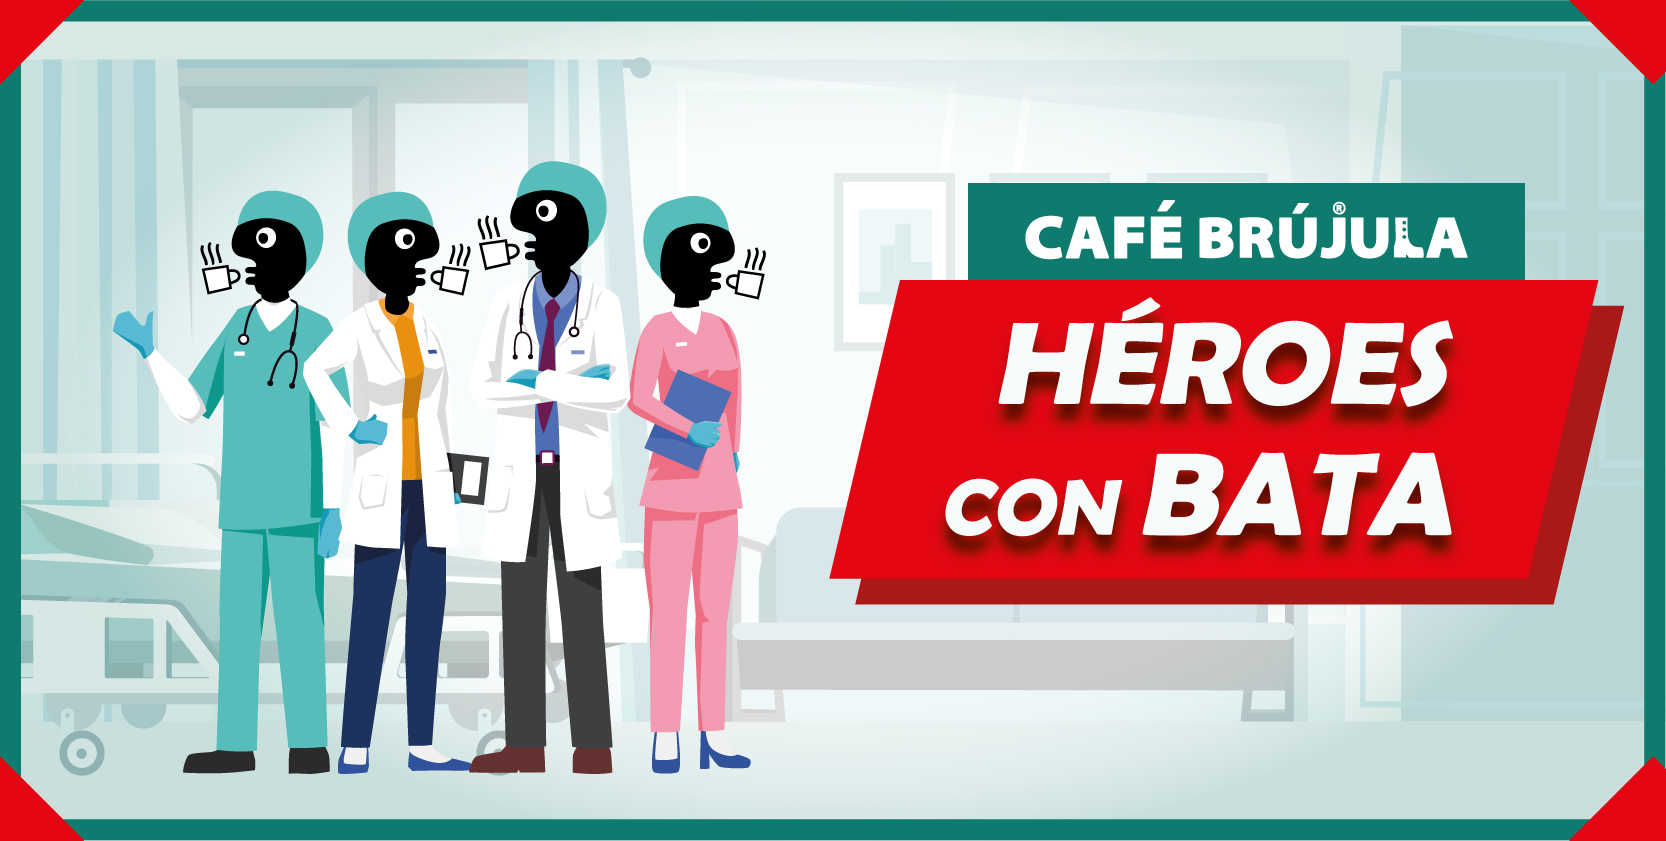
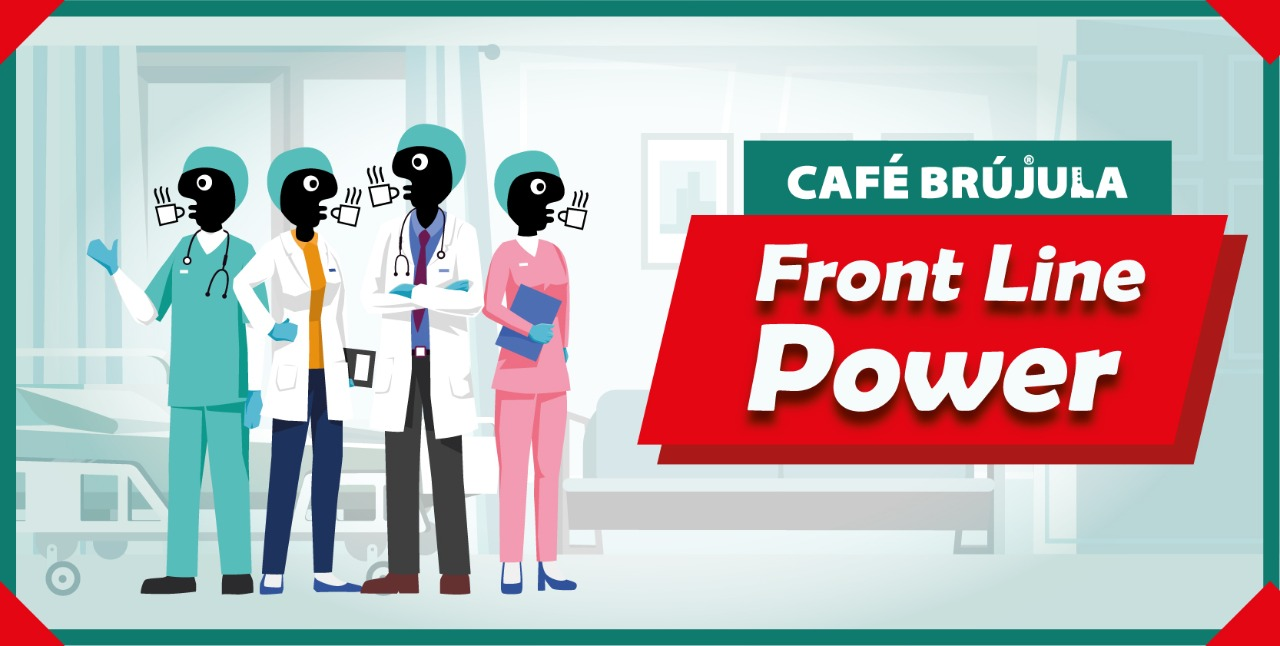
updated hero post

Changed region(s): [[0.5625, 0.3096, 0.9375, 0.6811]]

diff --git a/index.html b/index.html
@@ -32,6 +32,7 @@
   <!-- Primary Page Layout
   –––––––––––––––––––––––––––––––––––––––––––––––––– -->
   <img class="logo" src="images/logo.png" alt="cafe-brujula-logo">
+  <img class="heroes" src="images/heroes.jpg" alt="">
 
 
   <p class="customp"><strong> Promoción en el mes de Junio</strong> <br>
@@ -40,9 +41,6 @@
 Café Pendiente para los médicos en el Front Line! Dona un café para que comiencen al 100 su día</p>
 
 <img class="heroes" src="images/working.png" alt="">
-
-
-
 
   <!-- Flexbox container
     –––––––––––––––––––––––––––––––––––––––––––––––––– -->
